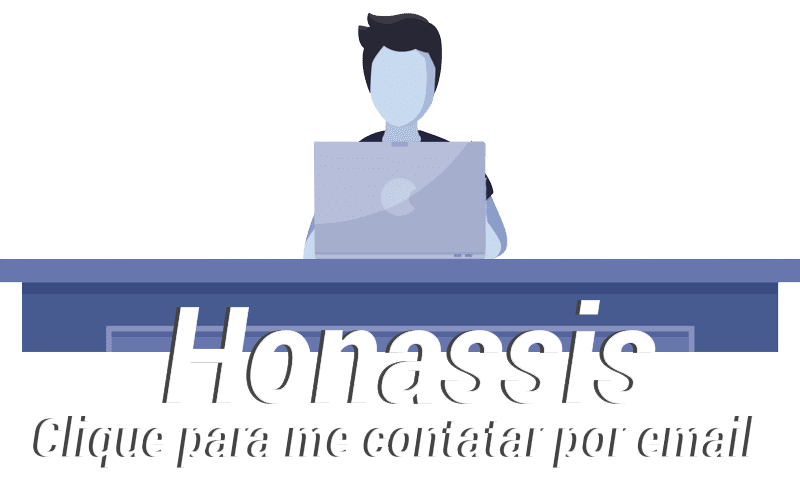
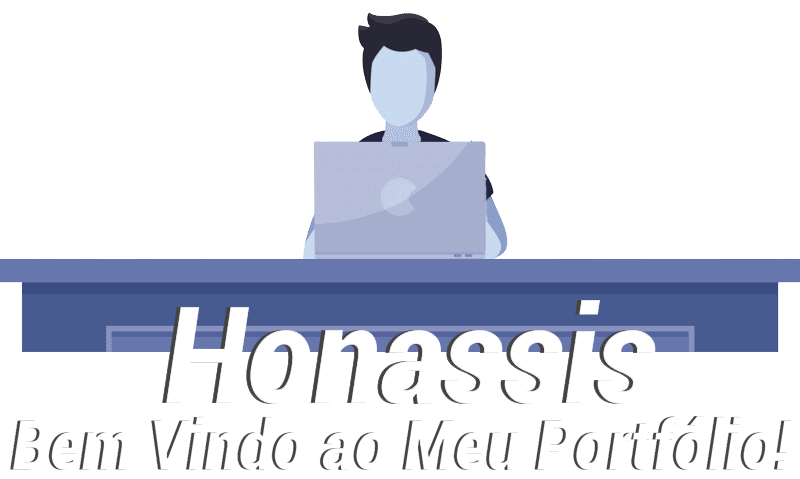
primeira versão do portfólio

Changed region(s): [[0.0, 0.8476, 1.0, 0.9937]]

diff --git a/index.html b/index.html
@@ -7,52 +7,61 @@
     <title>Portifólio - Honassis</title>
 
     <link rel="stylesheet" href="assets/css/styles.css">
+
 </head>
 
 <body>
 
 
-    <div class="container">
+    <div class="container" > 
         <a href="mailto:honassislopes@gmail.com">
             <img class="logo" src="assets/imgs/intro.png">
         </a>
         <div class="content">
-            <h2 class="title">AirCnC Módulos:</h2>
+            <h1 class="title">AirCnC Módulos</h1>
             <ul class="repo-list">
                 <li>
-                    <img src="assets/imgs/aircnc-web.png" alt="">
-                    <strong>AirCnC - Web</strong>
-                    <span>JS Puro + CSS + HTML5</span>
+                    <a href="https://github.com/honassis/aircnc-frontend" target="_blank">
+                        <img src="assets/imgs/aircnc-web.png" alt="">
+                        <strong>AirCnC - Web</strong>
+                        <span>ReactJS + Socket.Io</span>
+                    </a>
                 </li>
                 <li>
-                    <img src="assets/imgs/aircnc-native.png" alt="">
-
-                    </header>
-                    <strong>AirCnC - Mobile</strong>
-                    <span>JS Puro + CSS + HTML5</span>
+                    <a href="https://github.com/honassis/aircnc-mobile" target="_blank">
+                        <img src="assets/imgs/aircnc-native.png" alt="">
+                        <strong>AirCnC - Mobile</strong>
+                        <span>React Native + Socket.Io + Expo</span>
+                    </a>
                 </li>
                 <li>
-                    <img src="assets/imgs/aircnc-server.png" alt="">
-
-                    </header>
-                    <strong>AirCnC - Server</strong>
-                    <span>JS Puro + CSS + HTML5</span>
+                    <a href="https://github.com/honassis/aircnc-backend" target="_blank">
+                        <img src="assets/imgs/aircnc-server.png" alt="">
+                        <strong>AirCnC - Server</strong>
+                        <span>Node JS + Socket.Io + MongoDB</span>
+                    </a>
                 </li>
 
             </ul>
-            <h2 class="title">Meus Jogos Open-Sources:</h2>
+        </div>
+        <div class="content">
+
+            <h1 class="title">Meus Jogos Open-Sources</h1>
             <ul class="repo-list">
                 <li>
-                    <img src="assets/imgs/tictactoe.svg" alt="">
-                    <strong>TicTacToe</strong>
-                    <span>JS Puro + CSS + HTML5</span>
+                    <a href="https://honassis.github.io/jogo-da-velha-em-javascript-puro/" target="_blank">
+                        <img src="assets/imgs/tictactoe.svg" alt="">
+                        <strong>TicTacToe</strong>
+                        <span>JS Puro + CSS + HTML5</span>
+                    </a>
                 </li>
-                <li>
-                    <img src="assets/imgs/hangame.svg" alt="">
+                <li class="breve">
+                    <a href="#">
+                        <img src="assets/imgs/hangame.svg" alt="">
+                        <strong style="color: gray;">Hangman</strong>
+                        <span>(EM BREVE)</span>
+                    </a>
 
-                    </header>
-                    <strong>Hangman</strong>
-                    <span>JS Puro + CSS + HTML5</span>
                 </li>
 
             </ul>
@@ -60,32 +69,50 @@
         </div>
         <div class="content">
             <img src="https://i.pinimg.com/originals/3c/d5/67/3cd5679f54dc60811383649f9f6ea37d.png" alt="">
-            <h1 class="title">Meus Repositórios:</h1>
+            <h1 class="title">Todos Repositórios</h1>
 
 
             <ul class="github-list">
 
             </ul>
         </div>
-        
-        <div class="content">
-              
-                <h1 class="title">Contatos:</h1>
-              
-                <h2>honassislopes@gmail.com</h2>
-                
-    
-    
-                <ul class="github-list">
-    
-                </ul>
-            </div>
-            <a href="mailto:honassislopes@gmail.com">
-                    <img class="logo" src="assets/imgs/end.png">
-                </a>
-    </div>
 
-    <script src="assets/js/main.js"></script>
+        <div class="content">
+
+            <h1 class="title">Contato</h1>
+            <div class="socials">
+                <a href="https://instagram.com/the.hopz" target="_blank">
+                    <i class="fa fa-instagram" style="color:#e30c57;"></i>
+                </a>
+                <a href="https://api.whatsapp.com/send?phone=5585985377813&text=Ol%C3%A1%20Honassis%2C%20vi%20seu%20portif%C3%B3lio%20no%20github"
+                    target="_blank">
+                    <i class="fa fa-whatsapp" style="color:#1ea72c;"></i>
+                </a>
+                <a href="https://github.com/honassis" target="_blank">
+                    <i class="fa fa-github" style="color: black;"></i>
+                </a>
+                <a href="mailto:honassislopes@gmail.com" target="_blank">
+                    <i class="fa fa-envelope-square" style="color:#923f3f;"></i>
+                </a>
+
+                <a href="https://www.linkedin.com/in/honassis/" target="_blank">
+                    <i class="fa fa-linkedin-square" style="color: #0077b5"></i>
+                </a>
+
+            </div>
+            <p>
+                Entre em contato comigo seja por trabalho, freela, dúvidas, 
+                parcerias, amo progamar e quero seguir com isso na minha vida!
+            </p>
+            <div class="credits">Honassis Lopes © - 2019</div>
+        </div>
+        <a href="mailto:honassislopes@gmail.com">
+            <img class="logo" src="assets/imgs/end.png">
+        </a>
+
+        <script src="assets/js/main.js"></script>
+        <script src="https://use.fontawesome.com/80f9c5322b.js"></script>
+
 </body>
 
 </html>

diff --git a/assets/css/styles.css b/assets/css/styles.css
@@ -64,8 +64,11 @@ ul.repo-list {
     margin-bottom: 30px;
     display: grid;
 }
-
-ul.repo-list li {
+ul.repo-list a{
+    text-decoration: none;
+    text-decoration-color: none;
+}
+ul.repo-list li a{
     display: flex;
     flex-direction: column;
 }
@@ -78,13 +81,13 @@ ul.repo-list li img {
 }
 
 li strong {
-    font-size: 24px;
+    font-size: 22px;
     color: #444;
 }
 
 ul.repo-list li span {
     font-size: 12px;
-    color: #999;
+    color: #504c4c;
    
 }
 ul.github-list{
@@ -95,6 +98,7 @@ ul.github-list{
 ul.github-list strong{
   margin: 0 auto;
 }
+
 ul.github-list li strong{
     white-space: nowrap;
     overflow: hidden;
@@ -102,4 +106,35 @@ ul.github-list li strong{
     margin-top: 7%;
     max-width: 75ch;
     
+}
+.breve{
+        -webkit-filter: grayscale(100%); /* Safari 6.0 - 9.0 */
+        filter: grayscale(100%);
+  
+}
+
+.socials{
+    display:flex;
+    font-size: 3.5em;
+    list-style: none;
+    width: 100%;
+    margin: 0 auto;
+    
+}
+.socials a{
+    text-decoration: none;
+    padding: 4.4%;
+    transition: .5s;
+}
+.socials a:hover{
+    text-decoration: none;
+    padding: 4.4%;
+    margin-top: -10px;
+    transition: .5s;
+}
+.credits{
+    text-align: center;
+    margin-top: 10px;
+    position: absolute;
+    font-size: 13px;
 }

diff --git a/assets/js/main.js b/assets/js/main.js
@@ -9,7 +9,7 @@ repos.onreadystatechange = function() {
         data = JSON.parse(data);
         for(var i =0; i< data.length;i++){
            document.getElementsByClassName("github-list")[0].innerHTML +=   
-           `<li><a href="`+data[i].html_url+`"><strong>`+data[i].name+`</strong></a></li>`;
+           `<li><a href="`+data[i].html_url+`" target="_blank"><strong>`+data[i].name+`</strong></a></li>`;
         }
     }
 
